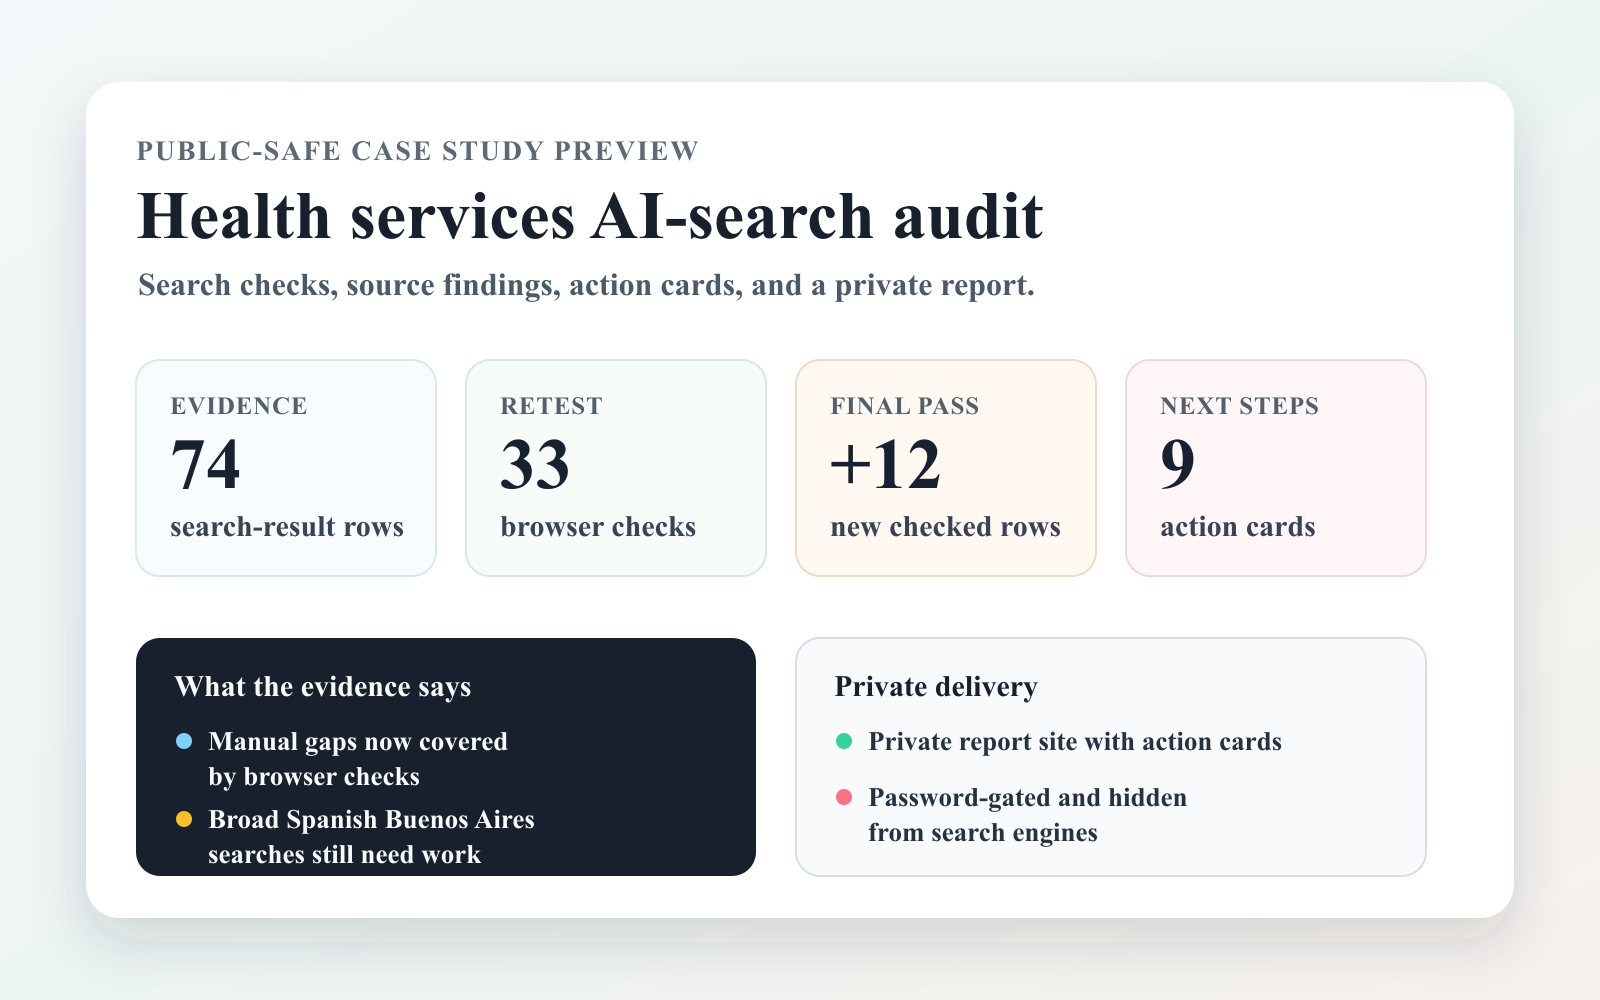
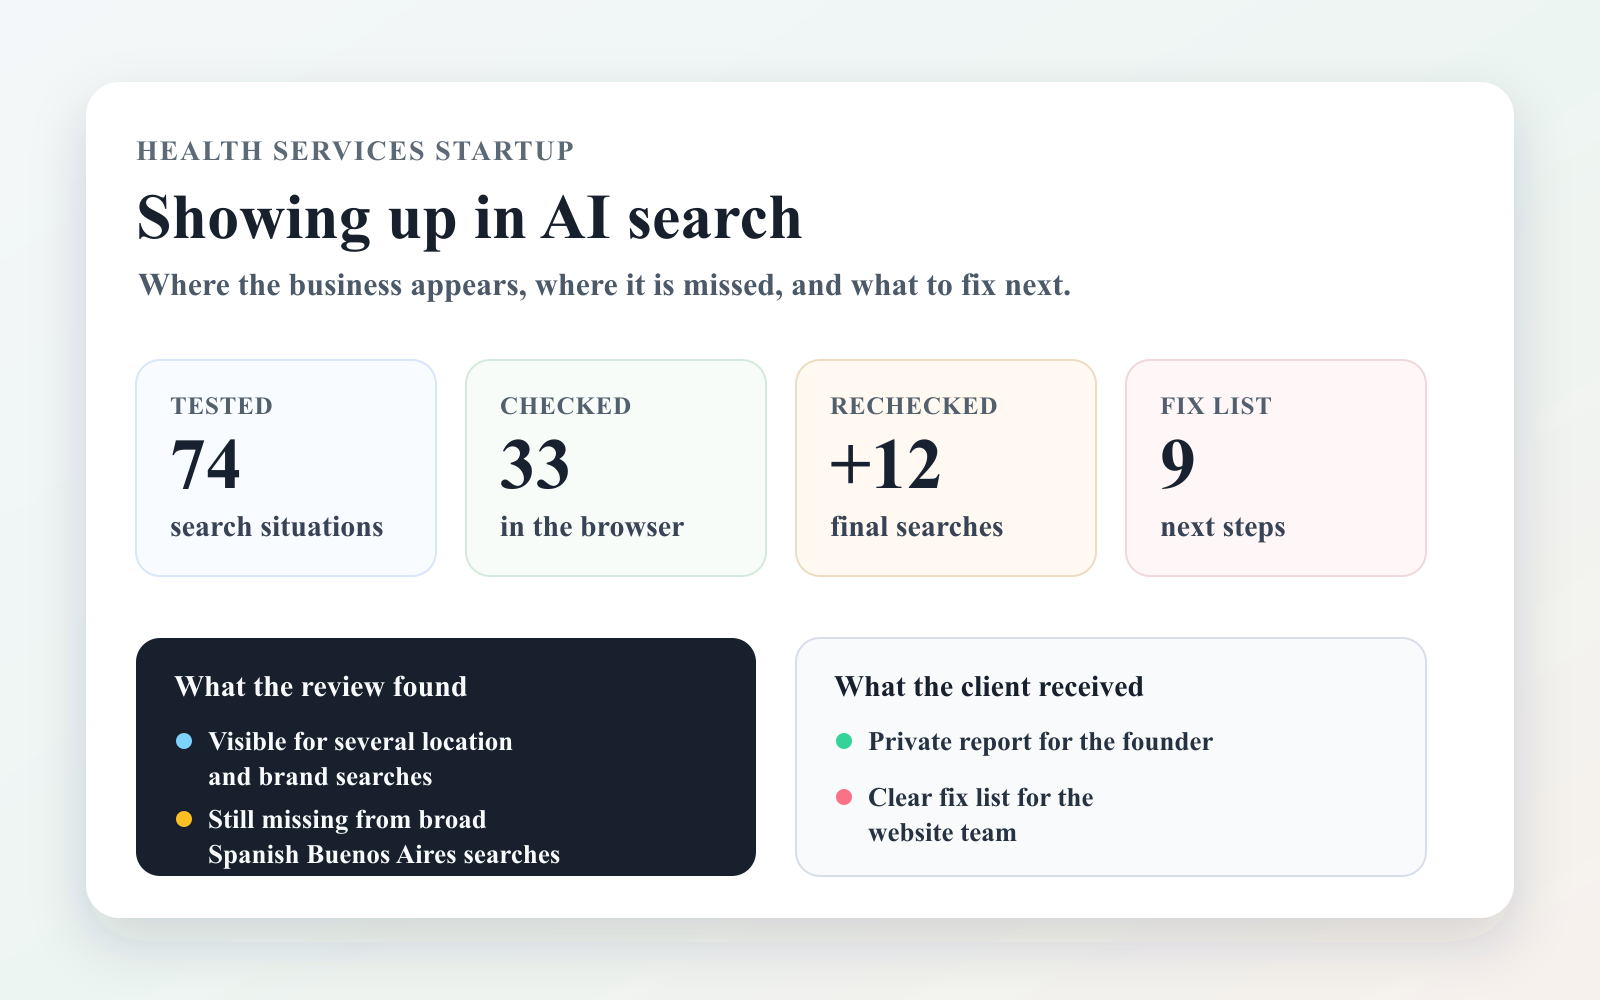
Make health AI search case study user-facing

diff --git a/docs/seo-changes-and-observations.md b/docs/seo-changes-and-observations.md
@@ -9,6 +9,7 @@ This file tracks Search Console observations, SEO decisions, and follow-up check
 - Reviewed the current private audit project and updated `/projects/health-ai-search-audit/` so the public case study describes the work as a practical health-services AI-search audit, not as a technical implementation note.
 - Kept the final evidence facts visible: 74 search-result rows, 33 browser-checked rows, 12 final retest rows, the remaining ChatGPT/Gemini gaps, and the private report with 9 action cards.
 - Replaced public-facing workbook and portal wording with private action report wording, and kept homepage placement unchanged because this still proves delivery and evidence quality rather than client implementation or measured post-fix impact.
+- Updated the archive-card title, description, detail-page framing, and generated preview image to lead with the user-facing story: where the health-services business appears in AI search, where it is missed, and what to fix next.
 - After deployment, verify the live public portfolio page keeps the plain-language framing and does not expose protected URLs, credentials, or client-sensitive report details.
 
 ## 2026-07-08

diff --git a/docs/case-study-drafts/health-ai-search-audit.md b/docs/case-study-drafts/health-ai-search-audit.md
@@ -7,7 +7,7 @@ Draft a public-safe portfolio case study for a health-services AI-search audit n
 ## Desired Outcome
 
 - Public case-study route: `/projects/health-ai-search-audit/`
-- Public framing: `AI Search Visibility Audit` for a `Health Services Startup`
+- Public framing: `Helping a Health Services Startup Show Up in AI Search`
 - Site placement now: project archive only
 - Site placement later: homepage only if follow-up, screenshot, implementation, or before/after evidence creates a stronger signal than the current homepage case studies
 
